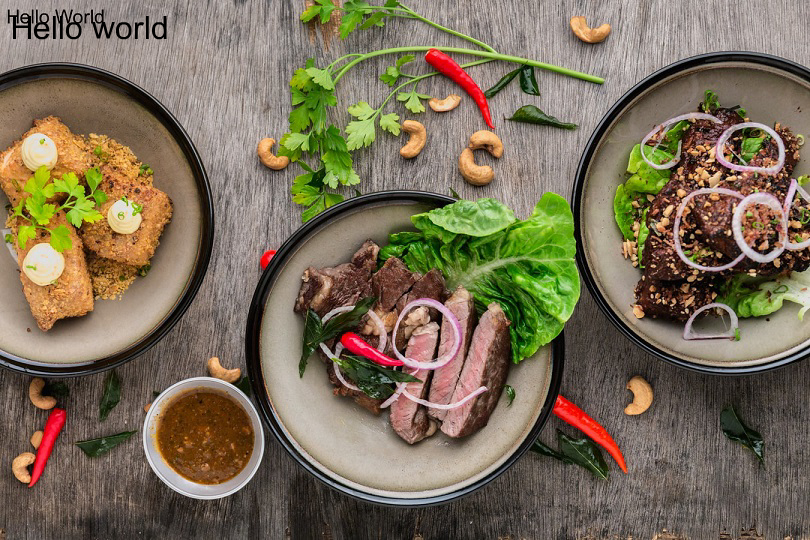
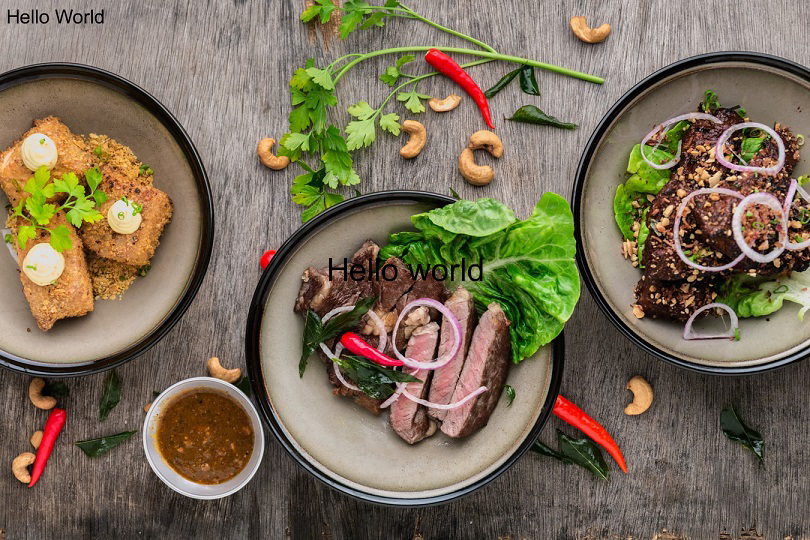
center watermark

Changed region(s): [[0.4012, 0.4741, 0.6173, 0.5333], [0.0, 0.0296, 0.216, 0.0889]]

diff --git a/app.js b/app.js
@@ -1,10 +1,15 @@
-const Jimp = require('jimp'); //pobranie modułu
+const Jimp = require('jimp');
 
 const addTextWatermarkToImage = async function(inputFile, outputFile, text) {
-  const image = await Jimp.read(inputFile); // .read ładowanie plików graficznych . await - kompilacja nie wykona się dopóki plik graficzny nie załaduje się.
-  const font = await Jimp.loadFont(Jimp.FONT_SANS_32_BLACK); //Jimp zezwala na ładowanie własnych fontów tutaj domyślna sans. loadFont - ładuje font i zapisuje do zmiennej
-  image.print(font, 10, 10, text); //dodanie napisu na obrazku
-  await image.quality(100).writeAsync(outputFile); //zapisanie zmienionego obrazka do nowego pliku
+  const image = await Jimp.read(inputFile);
+  const font = await Jimp.loadFont(Jimp.FONT_SANS_32_BLACK);
+  const textData = {
+    text,
+    alignmentX: Jimp.HORIZONTAL_ALIGN_CENTER,
+    alignmentY: Jimp.VERTICAL_ALIGN_MIDDLE,
+  };
+  image.print(font, 0, 0, textData, image.getWidth(), image.getHeight());
+  await image.quality(100).writeAsync(outputFile);
 };
 
 addTextWatermarkToImage('./test.jpg', './test-with-watermark.jpg', 'Hello world')
